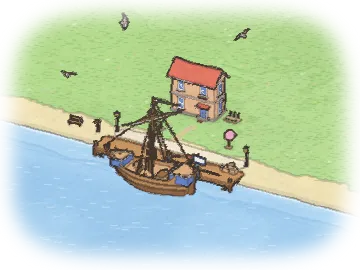
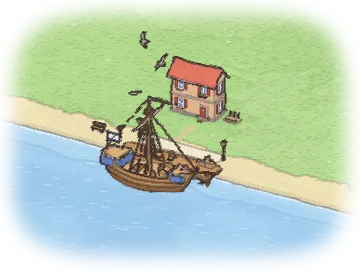
Guide: one Boats and ships entry (fit is the only test) and the cog; animation handoff for boats

diff --git a/src/guide/entries.ts b/src/guide/entries.ts
@@ -648,68 +648,44 @@ export const ENTRIES: readonly GuideEntry[] = [
     },
     view: FRONT,
   },
-  // Big ships (L38–L40): the picture shows the ship moored; a town opened with a port has its first ship in.
+  // Boats and ships ("Boats and ships": whatever fits comes). The picture shows the ship moored: a town opened
+  // with a port has its biggest ship in.
   {
-    id: 'galleon',
+    id: 'ships',
     group: 'waterfront',
-    name: 'Galleon',
-    how: 'Lay a quay of eight or more docks in a row along the shore, with open sea off it, in a port of twelve docks or more: now and then a galleon sails in and moors there.',
+    name: 'Boats and ships',
+    how: 'Build docks with open water beside them and boats come: a rowboat at a single dock, and the longer the quay, the bigger the ship that calls: a cog at about four docks in a row, a galley or a galleon at about seven.',
     proof: { actor: { rule: 'L38.galleon', type: 'ship-call' } },
     seed: 7504,
     ground: seaSouth,
     build(b) {
-      for (let x = 14; x <= 25; x++) b.block('dock', x, 0, 21);
-      b.path(14, 20, 25, 20);
-      b.house(15, 17, { w: 2, floors: 2, color: 1 }).house(21, 17, { w: 2, floors: 3, color: 4 });
+      for (let x = 15; x <= 22; x++) b.block('dock', x, 0, 21);
+      b.path(15, 20, 22, 20);
+      b.house(15, 17, { w: 2, floors: 2, color: 1 }).house(20, 17, { w: 2, floors: 3, color: 4 });
     },
+    also: [{ ground: seaSouth, build: (b) => void [14, 15, 16, 17, 18, 19, 20].forEach((x) => b.put('marble', x, 20)) }],
     view: { yaw: 30, pitch: 28 },
     pad: 0.2,
     life: { settle: 6 },
-    frame: [12, 18, 27, 24, 6],
+    frame: [13, 18, 25, 24, 6],
   },
   {
     id: 'cog',
     group: 'waterfront',
     name: 'Merchant cog',
-    how: 'Lay a quay of five or more docks in a row along the shore, with open sea off it, in a port of six docks or more: a round-bellied trading cog calls.',
+    how: 'Lay about four docks in a row along the shore with open sea beside them: a round-bellied trading cog calls there.',
     proof: { actor: { rule: 'L39.cog', type: 'ship-call' } },
     seed: 7505,
     ground: seaSouth,
     build(b) {
-      for (let x = 17; x <= 22; x++) b.block('dock', x, 0, 21);
-      b.path(17, 20, 22, 20);
+      for (let x = 18; x <= 21; x++) b.block('dock', x, 0, 21);
+      b.path(18, 20, 21, 20);
       b.house(18, 17, { w: 2, floors: 2, color: 6 });
     },
     view: { yaw: 30, pitch: 28 },
     pad: 0.2,
     life: { settle: 6 },
     frame: [16, 18, 24, 24, 5],
-  },
-  {
-    id: 'galley',
-    group: 'waterfront',
-    name: 'Galley',
-    how: 'Build a Light, and a quay six or more long along the shore (docks, or marble at the water’s edge) with open sea off it: now and then a galley rows in.',
-    proof: { actor: { rule: 'L40.galley', type: 'ship-call' } },
-    seed: 7506,
-    ground: seaSouth,
-    build(b) {
-      for (let x = 15; x <= 22; x++) b.put('marble', x, 20);
-      b.put('lighthouse', 24, 19);
-    },
-    also: [
-      {
-        ground: seaSouth,
-        build(b) {
-          for (let x = 15; x <= 21; x++) b.block('dock', x, 0, 21);
-          b.put('lighthouse', 24, 19);
-        },
-      },
-    ],
-    view: { yaw: 30, pitch: 28 },
-    pad: 0.2,
-    life: { settle: 6 },
-    frame: [13, 18, 25, 24, 5],
   },
 
   // ── green ─────────────────────────────────────────────────────────────

diff --git a/docs/swarm/handoff/animation.md b/docs/swarm/handoff/animation.md
@@ -29,13 +29,18 @@ Read `src/life/MOTION.md` first (the motion style), then this.
 - `silhouette.system.ts`: 4 slots of acts (cross, pause, curtain) at lit house windows; meshes in `src/parts/people/extras.ts`. Debug: `window.__lcSilhouettes`.
 - Fireflies are gone (owner's request): do not add them back.
 
+### Boats and ships (all of L17–L20, L38–L42; catalogue "Boats and ships")
+- **Fit is the only test.** No dock counts, no lighthouse, no piers 10 apart. A boat moors where its hull fits and it could have come in from the map's edge (`edgeWater` in `src/rules/life/berths.fact.ts`). L17: every dock with a mooring a rowboat fits at gets one (one per `BOATS.rowPerCells` cells), docks served in turn, up to `SHIPS.rowboatsMax` (phone: the first `SHIPS.rowboatsPhone` by `rank`). L18: one fishing boat beside any dock it fits. L19: `SHIPS.sailBase` sailboats on any island, one more per `SHIPS.sailPerDocks` dock cells. L20: the nearest two docks joined by water share a rower (at most two in the town). L38–L40: the longest `SHIPS.shipBerthsMax` berths get every big ship that fits them (`planBerth` sails it in and out); each berth takes one ship at a time in a smooth weighted rotation (galleon 5, galley 3, cog 2). L41: any dock on river water (generator 2's `MAT_RIVER`, or a channel) brings the barge, to another river dock or to the river mouth. L42: a tall ship passes on any island (more often with a lighthouse).
+- **Nothing vanishes.** The map's edge is a wall: the movers pool draws with `EDGECUT` (`src/render/shaders/surface.ts`), so anything moving on the water is cut off there per pixel, and an instance with params.w −1 (things in the air that go with a ship) or −2 (a ship crossing: its back faces are drawn flat and dark as its cut face, the CAP pass) is too. Ships start and end their voyages beyond a straight side and are released only when all of them is out. Built over: nudged to free water (`nearestFree`). Shut in: a resident until a way opens. No water at all: the removal puff (`src/life/ships/puff.ts`). Small boats that leave the plan are rowed or sailed away by a stand-in (`src/life/ships/ferry.system.ts`; behaviours call `notePose`). Landed goods lie on the quay (a Pile per berth) until a later crew carries them aboard.
+- **Getting along.** Ships slow for small boats under their bows; sailboats, the fishing boat and the rower slow and stand aside (`giveWay`, `standAside` in `src/life/ships/news.ts`); moored rowboats row aside along the dock when a ship comes in to their stretch (`news.zones`).
+- Tests: `src/life/ships/ships.test.ts` (no hull ever changes size or hides; every nasty edit mid-visit; small boats give way), `src/rules/life/berths.test.ts`. Gallery: `part.ships`, `part.ships-edge`.
+
 ## Not done
-- L20 rower. L10 bunting glow (Dressing's bunting part has no `PATTERN.glow` bulbs; add them, then add 'bunting' to `LAMP_TYPES`).
+- L10 bunting glow (Dressing's bunting part has no `PATTERN.glow` bulbs; add them, then add 'bunting' to `LAMP_TYPES`).
 - Gust front: checked numerically (wind field), not convincingly by eye in contact sheets.
 
 ## Next, in order
-1. L20 rower (two piers 10+ apart; a rowboat between their pier ends, through open water only).
-2. A second look at clouds (they only show over the paper round the map) and the cat's size at playing zoom.
+1. A second look at clouds (they only show over the paper round the map) and the cat's size at playing zoom.
 
 ## Gotchas
 - Shell: heredocs mixed with other commands are refused; use Write, or short python -c edits.
